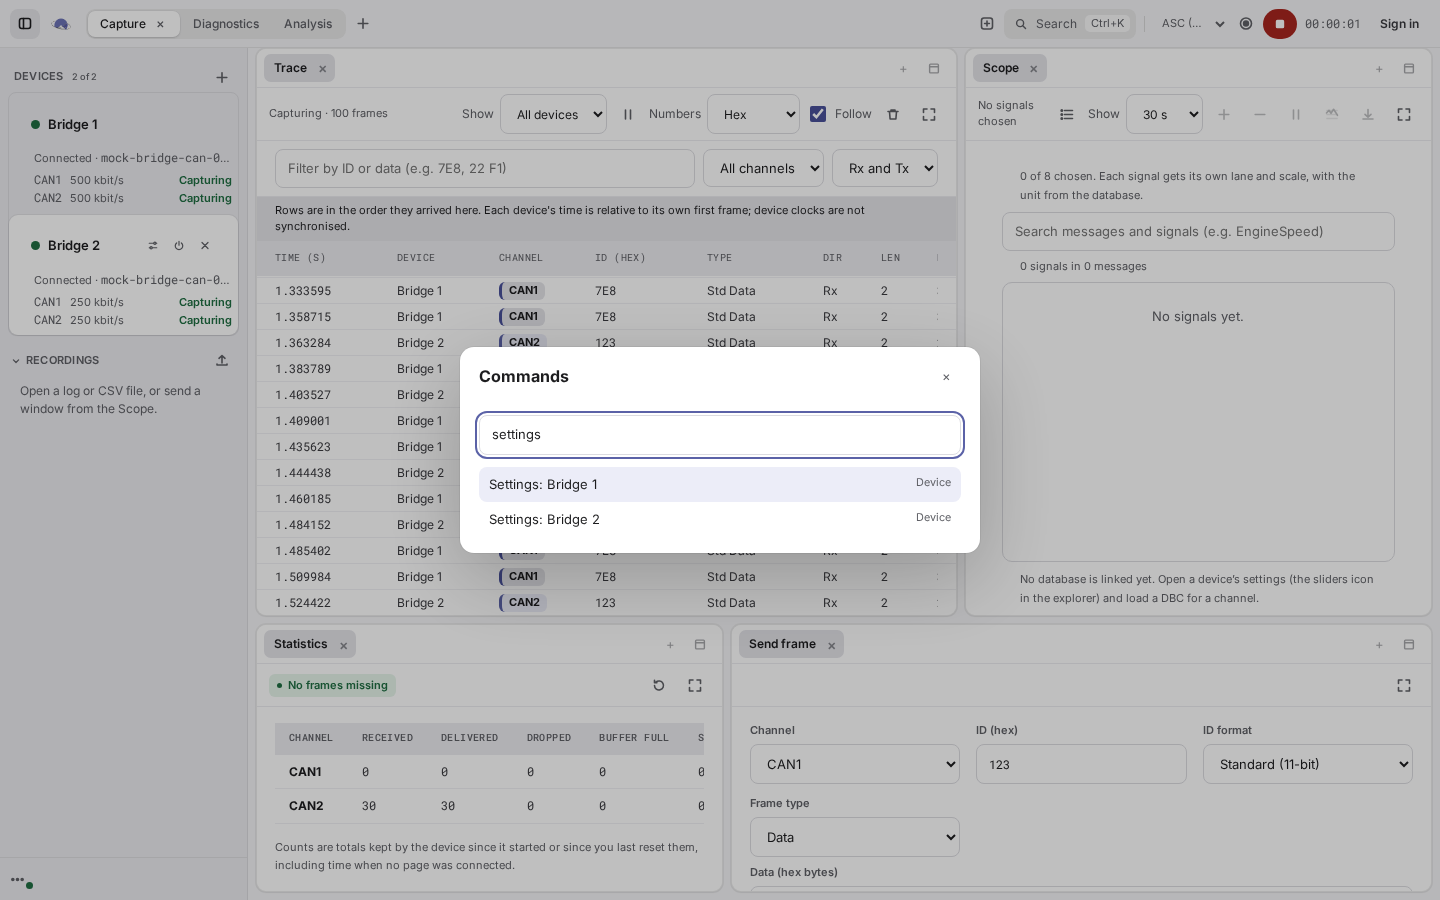
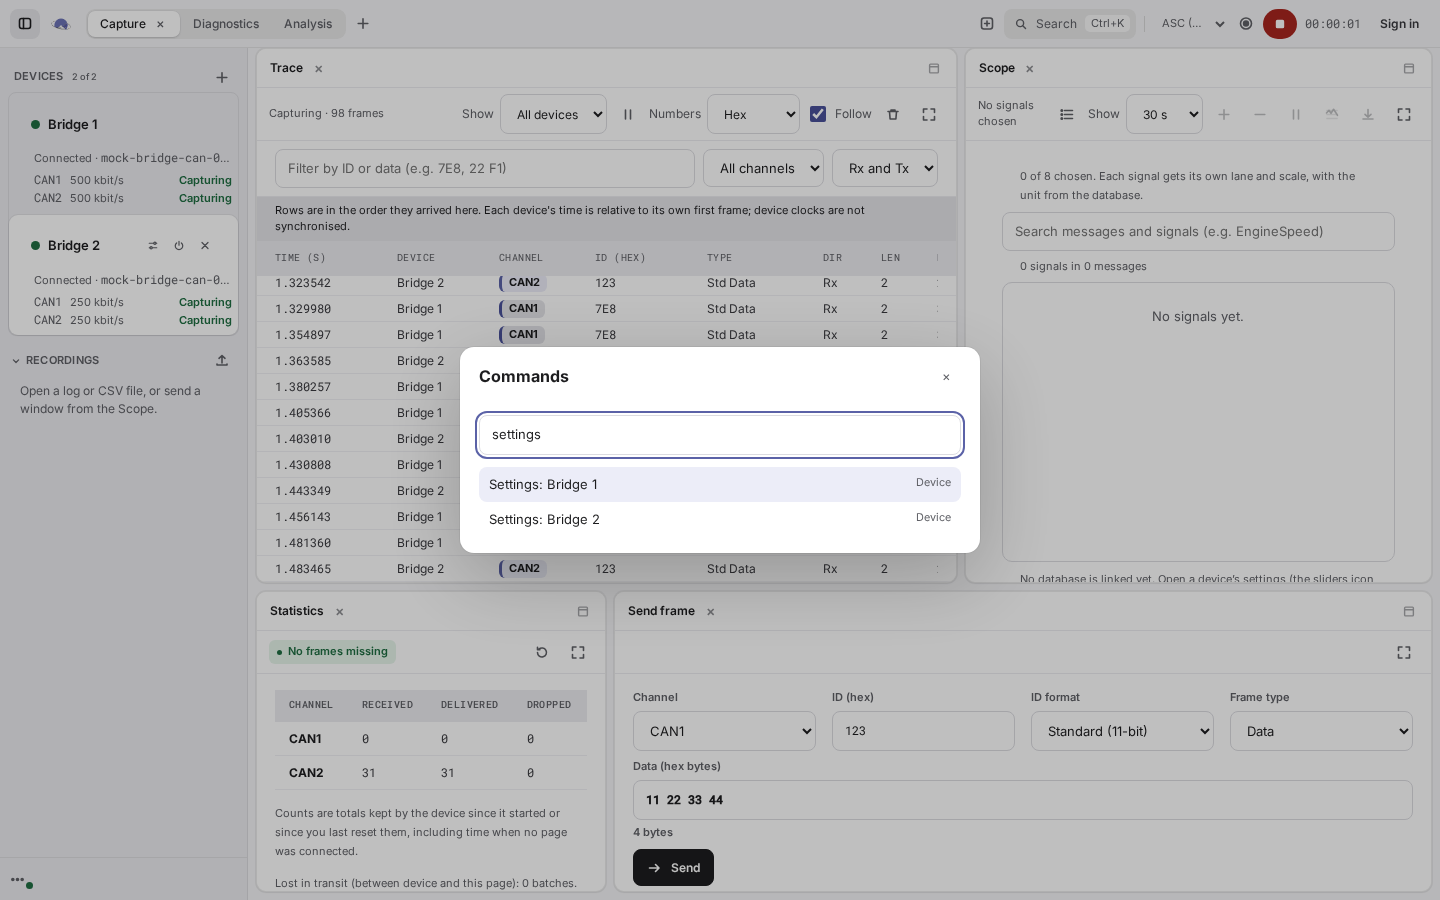
Size new panels by how much they have to show
A panel with little to show (statistics, a form) gets less room than a trace or a plot when it is
added beside or under one, and the Capture template gives the bottom row a wider Send frame, so
the Send form fits and fewer panels have blank areas.

diff --git a/src/workspace/project.ts b/src/workspace/project.ts
@@ -9,6 +9,8 @@ export const MAX_CANVASES = 24;
 export const MAX_PANELS = 120;
 export const MAX_PROJECTS = 20;
 export const MAX_NAME = 48;
+/** How much room a panel type wants, relative to the others, when it is added beside or under one. */
+const WEIGHT: Record<PanelType, number> = { trace: 3, plot: 3, analyzer: 3, recordings: 1.5, uds: 2, xcp: 2, transmit: 1.5, stats: 1 };
 
 // Settings of one device (channels, the device itself, the diagnostic link) are not panels: they live in that device's settings
 // dialog, so two Bridges never share a panel that can only show one of them. An older saved workspace that still names those
@@ -70,7 +72,7 @@ export function buildTemplate(id: string): Built {
   const g = (...ids: string[]) => group(ids);
   switch (id) {
     case 'capture':
-      return { panels, root: split('col', [split('row', [g(mk('trace')), g(mk('plot'))], [0.6, 0.4]), split('row', [g(mk('stats')), g(mk('transmit'))], [0.4, 0.6])], [0.68, 0.32]) };
+      return { panels, root: split('col', [split('row', [g(mk('trace')), g(mk('plot'))], [0.6, 0.4]), split('row', [g(mk('stats')), g(mk('transmit'))], [0.3, 0.7])], [0.64, 0.36]) };
     case 'debug':
       return { panels, root: split('row', [g(mk('plot')), g(mk('trace'))], [0.62, 0.38]) };
     case 'transmit':
@@ -301,7 +303,11 @@ export class ProjectStore {
     const target = (groupId && groupById(c.root, groupId)) || null;
     // Named group: a tab in it. Otherwise the panel is tiled into the canvas, beside or under the group with the most room.
     const place = target ? { groupId: target.id, zone: 'center' as const } : autoPlace(c.root);
-    const root = c.root && place ? insertPanel(c.root, place.groupId, place.zone, pid) : group([pid]);
+    // A panel with little to show (counters, a form) gets less room than a table or a plot.
+    const targetGroup = place ? groupById(c.root, place.groupId) : null;
+    const targetType = targetGroup ? this.project.panels[targetGroup.active]?.type : undefined;
+    const share = place?.zone === 'center' || !targetType ? 0.5 : WEIGHT[type] / (WEIGHT[type] + WEIGHT[targetType]);
+    const root = c.root && place ? insertPanel(c.root, place.groupId, place.zone, pid, share) : group([pid]);
     this.commit({ ...this.project, canvases: this.project.canvases.map((x) => (x.id === c.id ? { ...x, root } : x)), panels: { ...this.project.panels, [pid]: { type, ...init } } });
     return pid;
   }

diff --git a/src/workspace/layout.ts b/src/workspace/layout.ts
@@ -98,16 +98,17 @@ export function removePanel(node: LayoutNode | null, panelId: string): LayoutNod
 }
 
 /** Puts a panel into a group (centre) or beside it (an edge, which splits the group). */
-export function insertPanel(node: LayoutNode | null, groupId: string, zone: DropZone, panelId: string): LayoutNode | null {
+export function insertPanel(node: LayoutNode | null, groupId: string, zone: DropZone, panelId: string, share = 0.5): LayoutNode | null {
   if (!node) return group([panelId]);
   if (node.kind === 'group') {
     if (node.id !== groupId) return node;
     if (zone === 'center') return { ...node, tabs: [...node.tabs, panelId], active: panelId };
     const added = group([panelId]);
     const first = zone === 'left' || zone === 'top';
-    return split(zone === 'left' || zone === 'right' ? 'row' : 'col', first ? [added, node] : [node, added], [0.5, 0.5]);
+    const s = Math.min(0.8, Math.max(0.2, share));
+    return split(zone === 'left' || zone === 'right' ? 'row' : 'col', first ? [added, node] : [node, added], first ? [s, 1 - s] : [1 - s, s]);
   }
-  return { ...node, children: node.children.map((c) => insertPanel(c, groupId, zone, panelId) as LayoutNode) };
+  return { ...node, children: node.children.map((c) => insertPanel(c, groupId, zone, panelId, share) as LayoutNode) };
 }
 
 /**

diff --git a/tests/workspace-project.test.ts b/tests/workspace-project.test.ts
@@ -150,3 +150,18 @@ describe('import and export', () => {
     expect(p.canvases[0]!.name).toBe('x');
   });
 });
+
+describe('adding panels', () => {
+  it('gives a panel with little to show less room than a table or a plot', () => {
+    const s = new ProjectStore(() => memory());
+    s.addPanel('trace');
+    s.addPanel('stats');
+    s.addPanel('plot');
+    const root = s.getState().project.canvases[0]!.root as { kind: string; sizes: number[]; children: { kind: string }[] };
+    expect(root.kind).toBe('split');
+    const find = (n: { kind: string; sizes?: number[]; children?: unknown[] }): number[][] => (n.kind === 'split' ? [n.sizes!, ...(n.children as { kind: string }[]).flatMap(find)] : []);
+    const all = find(root);
+    // trace (3) beside stats (1): stats gets a quarter.
+    expect(all.some((sz) => Math.abs(Math.min(...sz) - 0.25) < 0.01)).toBe(true);
+  });
+});
